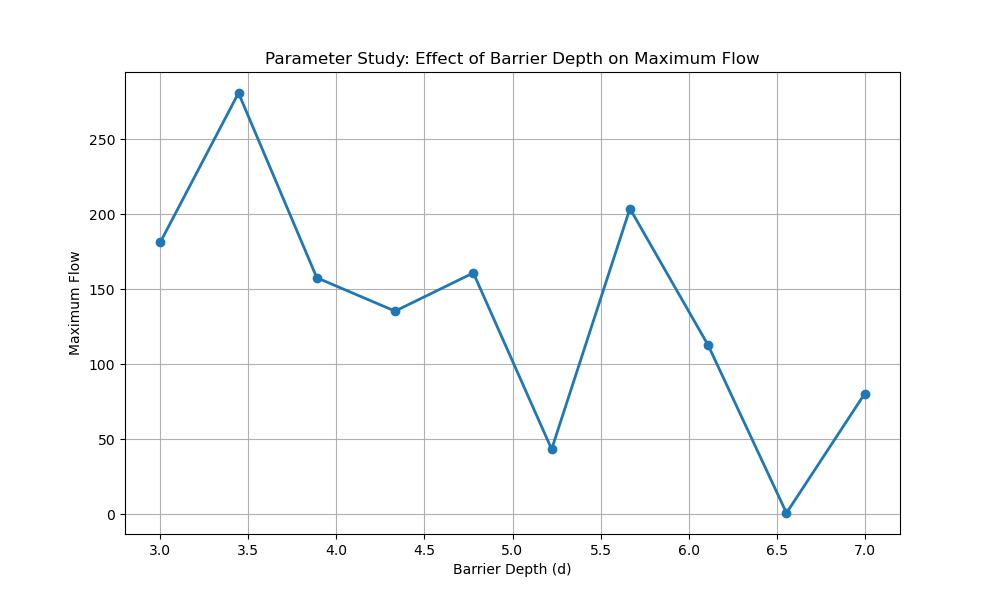
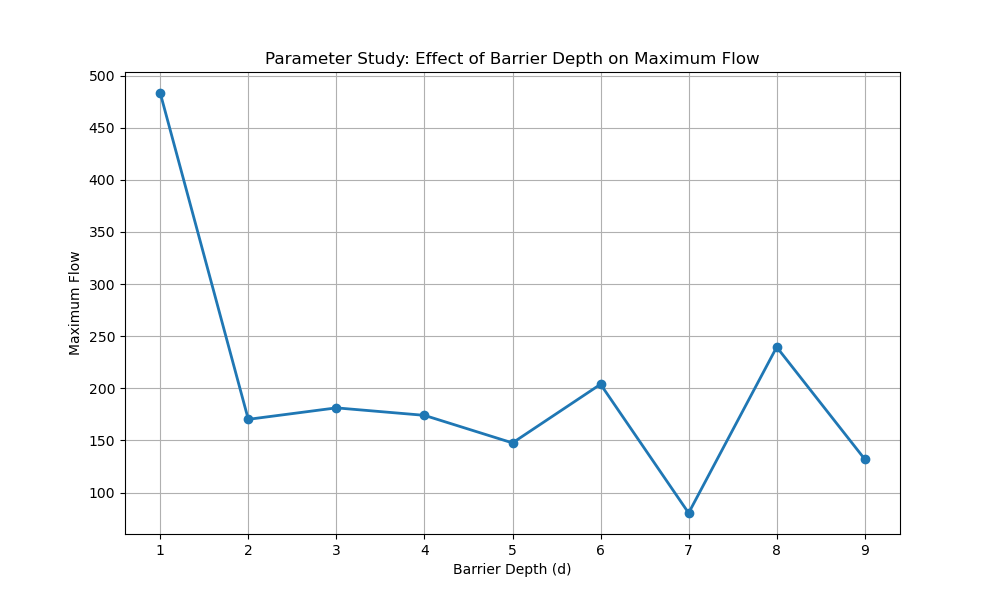
16/4-2025 13:55

diff --git a/Worksheet 3/flowmodel_3.py b/Worksheet 3/flowmodel_3.py
@@ -406,7 +406,7 @@ class ModelSolver:
         """Run a parameter study by varying the barrier depth"""
 
         # Parameters to vary
-        d_values = np.linspace(3.0, 7.0, 10)
+        d_values = np.linspace(1.0, 9.0, 9)
         max_flow_values = []
 
         # Run simulation for each value
